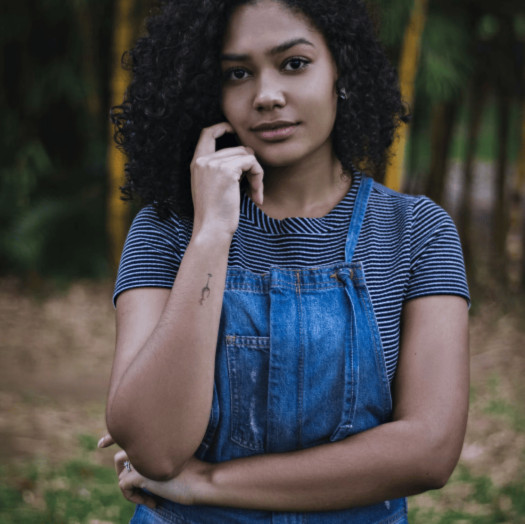
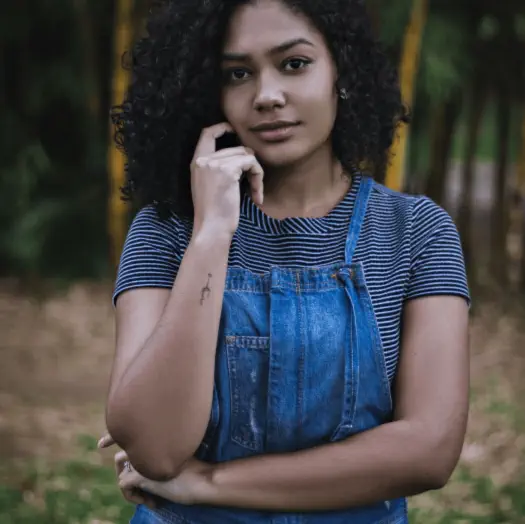
update compression des images

Changed region(s): [[0.5486, 0.5191, 0.579, 0.5496], [0.5486, 0.4275, 0.579, 0.458]]

diff --git a/index.html b/index.html
@@ -43,11 +43,34 @@
 		content="Votre photographe mariage, grossesse, naissance et famille en Bordeaux,  Des photos avec des résultats professionnel">
 	<meta name="twitter:image" content="https://imene-yahiaoui.github.io/Nina-Carducci/">
 
+
+ <!--   -->
+	<script type="application/ld+json">
+		{
+		  "@context": "http://schema.org",
+		  "@type": "LocalBusiness",
+		  "name": "Nina Carducci",
+		  "image": "file:///C:/Users/sadek/Desktop/Nouveau%20dossier/nina.webp",
+		  "telephone": "05 56 67 78 89",
+		  "address": {
+			"@type": "PostalAddress",
+			"streetAddress": "68 avenue Alsace-Lorraine, 33200 Bordeaux"
+		  },
+		  "openingHoursSpecification": {
+			"@type": "OpeningHoursSpecification",
+			"dayOfWeek": {
+			  "@type": "DayOfWeek",
+			  "name": "Je réponds au téléphone du lundi au vendredi de 10h à 19h"
+			}
+		  }
+		}
+		</script>
+
 </head>
 
 <body>
-	<div class="top-header">
-		<h3 class="name">Nina Carducci</h3>
+	<div  itemscope itemtype="http://schema.org/LocalBusiness" class="top-header">
+		<h1  itemprop="name" class="name">Nina Carducci</h1>
 		<div class="nav">
 			<ul>
 				<li><a href="#about">À propos</a></li>
@@ -58,8 +81,19 @@
 						rel="noopener"><img src="assets/images/instagram.webp" alt="instagram"></a></li>
 			</ul>
 		</div>
-	</div>
-	<div id="header">
+
+		
+
+
+
+</div>
+	<meta itemprop="telephone" content="05 56 67 78 89">
+<span itemprop="address" itemscope itemtype="http://schema.org/PostalAddress">
+<meta itemprop="streetAddress" content="68 avenue Alsace-Lorraine, 33200 Bordeaux"></span>
+<span itemprop="openingHoursSpecification" itemscope itemtype="http://schema.org/OpeningHoursSpecification">
+<span itemprop="dayOfWeek" itemscope itemtype="http://schema.org/DayOfWeek">
+<meta itemprop="name" content="Je réponds au téléphone du lundi au vendredi de 10h à 19h"></span></span>
+	<header id="header">
 
 		<div id="carouselExampleIndicators" class="carousel slide" data-bs-ride="carousel">
 			<div class="carousel-indicators">
@@ -95,16 +129,16 @@
 				<span class="visually-hidden">Next</span>
 			</button>
 		</div>
-	</div>
-	<div id="about">
+	</header>
+	<section id="about">
 		<div class="picture left">
-			<img src="./assets/images/nina.webp" alt="Nina">
+			<img src="./assets/images/nina.webp" alt="Nina" height="100%" width="100%">
 		</div>
 		<div id="about-me">
-			<h3 class="about-me__title">A propos de moi</h3>
-			<h6 class="about-me__introduction">Devenir photographe était pour moi une évidence. Comme si j’y étais
+			<h2 class="about-me__title">A propos de moi</h2>
+			<p class="about-me__introduction">Devenir photographe était pour moi une évidence. Comme si j’y étais
 				prédestiné. Saisir un moment, une émotion, une situation, un endroit, une lumière et les rendre
-				immortels, voilà ce qui me fait vibrer.</h6>
+				immortels, voilà ce qui me fait vibrer.</p>
 			<p>Nous passons notre vie à chercher le bonheur, et lorsque nous y touchons, nous n’avons qu’une envie : le
 				figer au travers de photographies pour le savourer avec les personnes qui sont importantes à nos yeux,
 				ou le partager au plus grand nombre.
@@ -112,7 +146,7 @@
 				technique. Rendre ces moments immortels, afin que vous puissiez y puiser de l’amour, du bonheur, de la
 				tendresse et de lumière à chaque fois que vous poserez les yeux sur vos photos.</p>
 		</div>
-	</div>
+	</section>
 	<div id="gallery">
 		<h3 class="title">Portfolio</h3>
 		<div class="container py-3">

diff --git a/assets/style.css b/assets/style.css
@@ -36,6 +36,7 @@ body {
 }
 .social-link img {
   width: 20px;
+  height:auto;
 }
 #about {
   display: flex;
@@ -181,6 +182,18 @@ body {
 #contact .container {
   display: flex;
 }
+
+.picture.right img{
+    width:auto;
+    height:auto;
+}
+.d-block w-100,
+.picture.left img{
+    width: 100%;
+height: 100%
+}
+
+
 .picture.right::before {
   content: " ";
   background-color: #beb45a;
